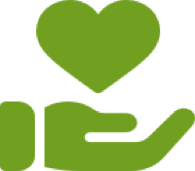
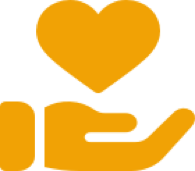
Couple color changes.

diff --git a/src/components/donate/index.js b/src/components/donate/index.js
@@ -20,7 +20,7 @@ const useStyles = makeStyles(theme => ({
     marginTop: 12,
     boxShadow: '0px 0px 7px 1px rgba(0,0,0,0.13)',
     color: '#3D3B39',
-    minHeight: '300px',
+    minHeight: '438px',
     [theme.breakpoints.up('sm')]: {
       
     },
@@ -117,7 +117,7 @@ export default function Donate() {
           <br />
           <Button
             variant="contained"
-            color="secondary"
+            color="primary"
             onClick={openDonations}
           >
             Complete Donation

diff --git a/src/components/request-codes/index.js b/src/components/request-codes/index.js
@@ -11,7 +11,7 @@ const useStyles = makeStyles(theme => ({
     marginTop: 12,
     boxShadow: '0px 0px 7px 1px rgba(0,0,0,0.13)',
     color: '#3D3B39',
-    minHeight: '300px',
+    minHeight: '438px',
     [theme.breakpoints.up('sm')]: {
       
     },
@@ -64,7 +64,7 @@ export default function BusinessSignUp() {
         <br />
         <Button
           variant="contained"
-          color="secondary"
+          color="primary"
           onClick={openRequestForm}
         >
           Submit your business
